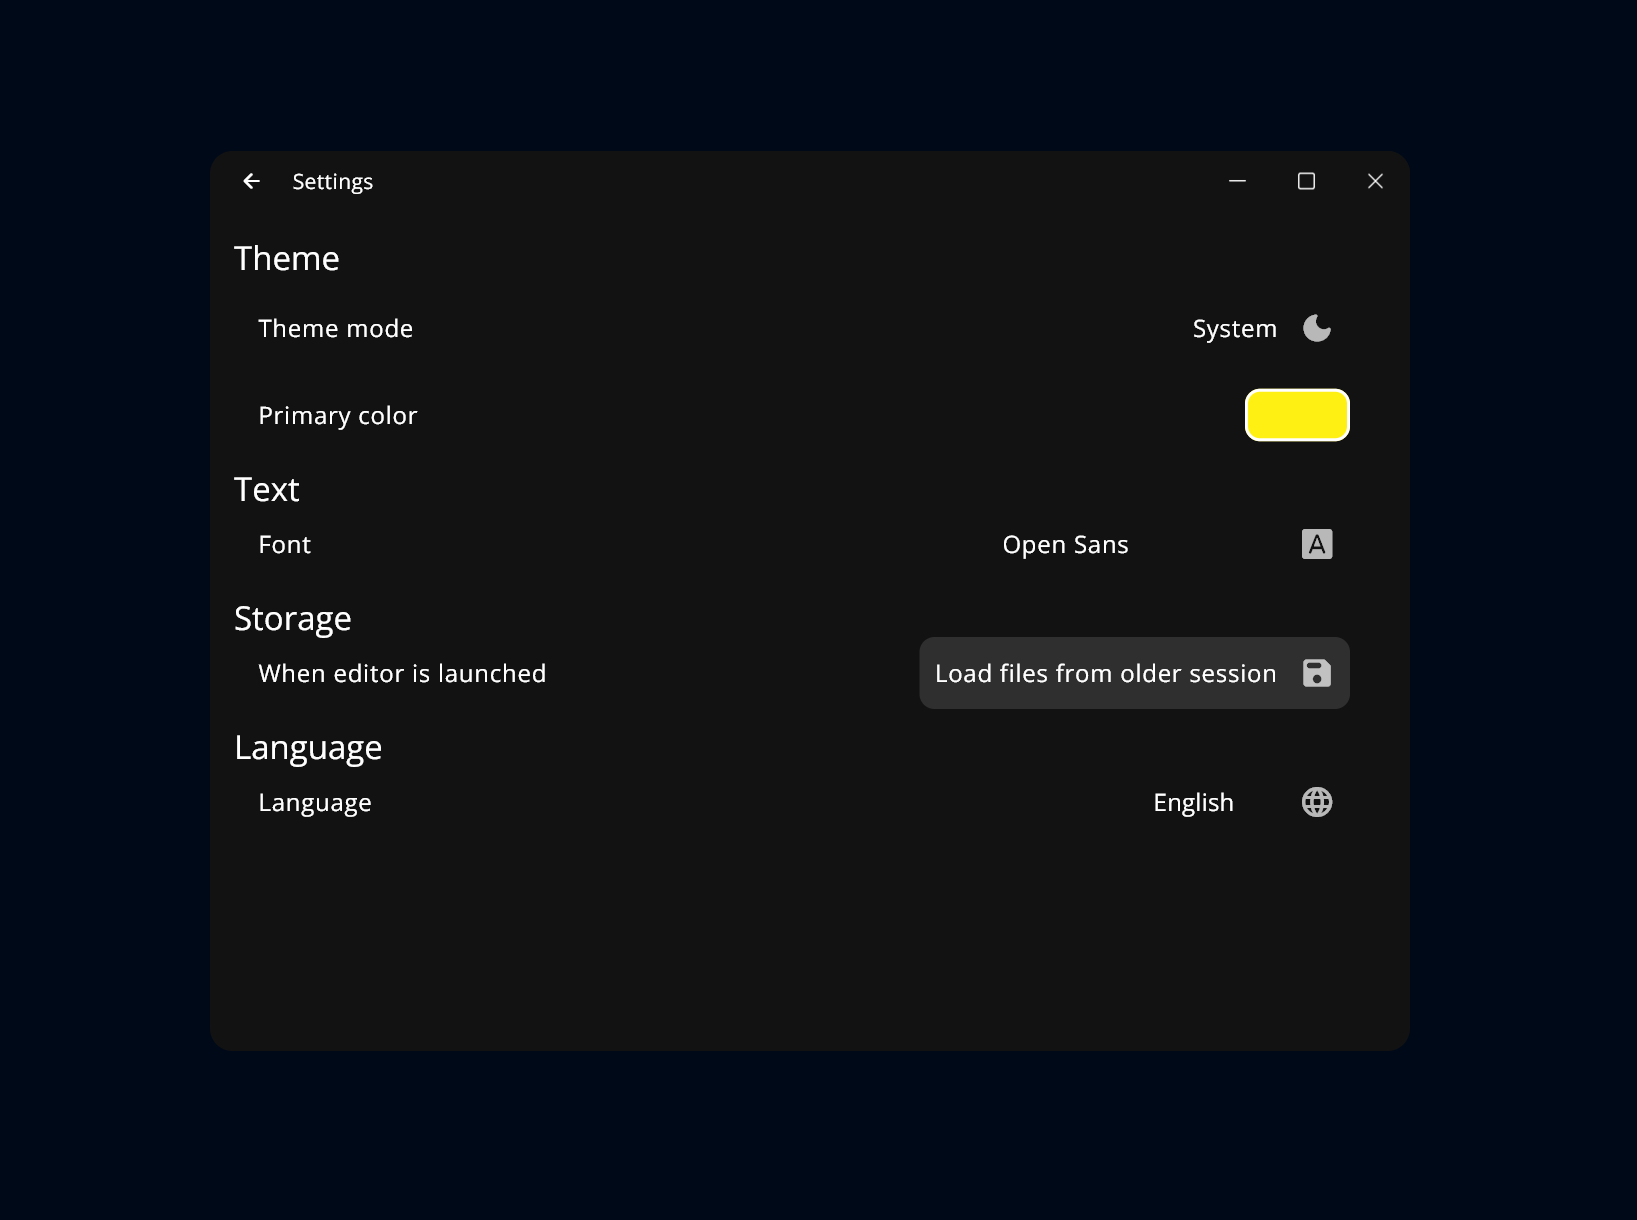
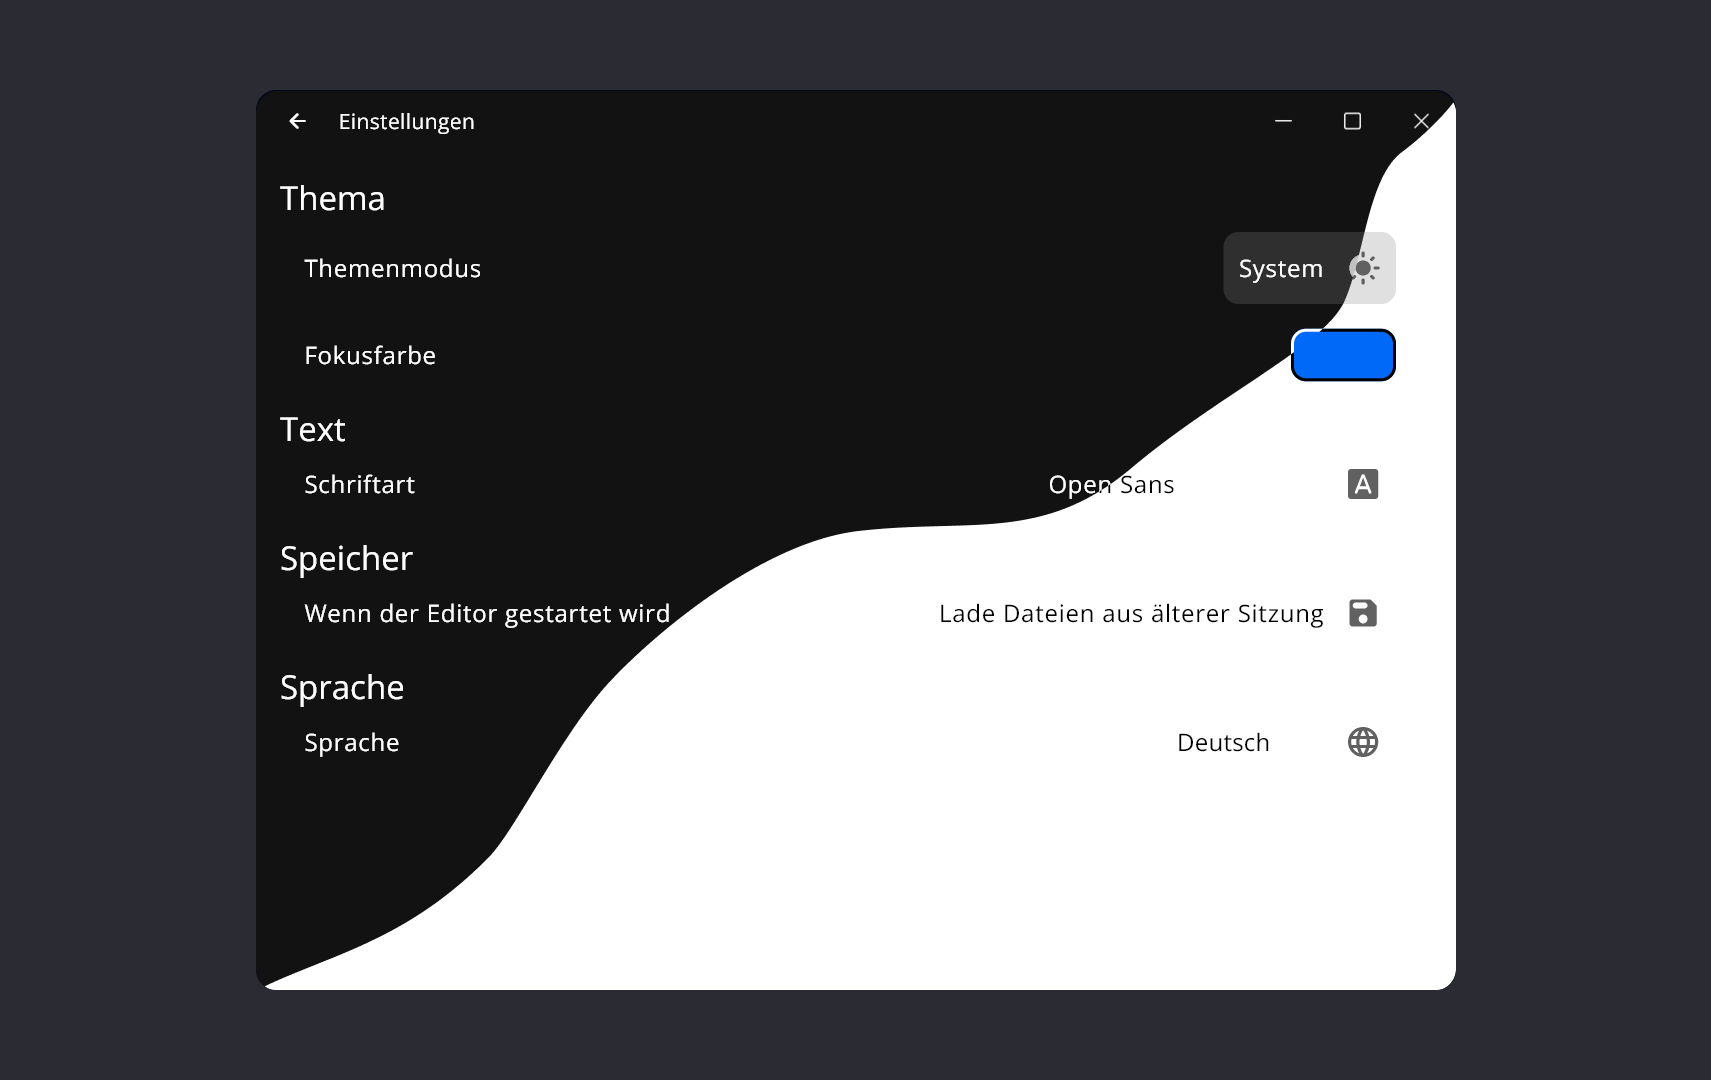
Fixed theme issues, added installer, update readme

diff --git a/lib/models/document.dart b/lib/models/document.dart
@@ -95,7 +95,7 @@ class DocumentNotifier extends StateNotifier<List<Document>> {
     final result = await FilePicker.platform.pickFiles(
       dialogTitle: LocalKeys.open.tr(),
       type: FileType.custom,
-      allowedExtensions: ["edoc", "txt"],
+      allowedExtensions: ["odoc", "txt"],
     );
 
     if (result == null ||
@@ -183,15 +183,15 @@ class DocumentNotifier extends StateNotifier<List<Document>> {
       newPathList.removeLast();
       String newPath = newPathList.join("\\");
 
-      if (File("$newPath\\$newTitle.edoc").existsSync()) {
+      if (File("$newPath\\$newTitle.odoc").existsSync()) {
         throw LocalKeys.fileWithSameTitleAlreadyExists.tr();
       }
 
-      File(doc.diskLocation!).renameSync("$newPath\\$newTitle.edoc");
+      File(doc.diskLocation!).renameSync("$newPath\\$newTitle.odoc");
 
       doc = doc.copyWith(
         title: newTitle,
-        diskLocation: "$newPath\\$newTitle.edoc",
+        diskLocation: "$newPath\\$newTitle.odoc",
       );
       // Update the state, remove the old document and add the updatet one
       state = [
@@ -238,9 +238,9 @@ class DocumentNotifier extends StateNotifier<List<Document>> {
     if (diskLocation == null) {
       final result = await FilePicker.platform.saveFile(
         dialogTitle: LocalKeys.saveAs.tr(),
-        fileName: "${doc.title ?? LocalKeys.unknown.tr()}.edoc",
+        fileName: "${doc.title ?? LocalKeys.unknown.tr()}.odoc",
         type: FileType.custom,
-        allowedExtensions: ["edoc", "txt"],
+        allowedExtensions: ["odoc", "txt"],
       );
 
       if (result != null) {
@@ -279,9 +279,9 @@ class DocumentNotifier extends StateNotifier<List<Document>> {
 
     final result = await FilePicker.platform.saveFile(
       dialogTitle: LocalKeys.saveAs.tr(),
-      fileName: "${doc.title ?? LocalKeys.unknown.tr()}.edoc",
+      fileName: "${doc.title ?? LocalKeys.unknown.tr()}.odoc",
       type: FileType.custom,
-      allowedExtensions: ["edoc", "txt"],
+      allowedExtensions: ["odoc", "txt"],
     );
 
     if (result != null) {
@@ -325,7 +325,7 @@ class DocumentNotifier extends StateNotifier<List<Document>> {
 
   Future<void> saveToDocumentsCache(Document document) async {
     final path =
-        "${MemoryLocations.applicationDocumentsDirectory}\\${MemoryLocations.documentsCacheLocation}\\${document.uuid}.json"; // Important: JSON Document, not .edoc, the name of doc is the uuid and the title + text is stored in the document
+        "${MemoryLocations.applicationDocumentsDirectory}\\${MemoryLocations.documentsCacheLocation}\\${document.uuid}.json"; // Important: JSON Document, not .odoc, the name of doc is the uuid and the title + text is stored in the document
     final file = File(path);
 
     // Almost impossible, but just in case

diff --git a/lib/pages/settings_page.dart b/lib/pages/settings_page.dart
@@ -225,6 +225,9 @@ class SettingsPage extends HookConsumerWidget {
                               value: languageKeys[lang],
                               child: Text(
                                 lang.tr(),
+                                style: TextStyle(
+                                  color: colorScheme.onBackground,
+                                ),
                               ),
                             ),
                           )
@@ -314,7 +317,12 @@ class SettingsWindowBar extends StatelessWidget {
             ),
           ),
           const SizedBox(width: 10),
-          Text(LocalKeys.settings.tr()),
+          Text(
+            LocalKeys.settings.tr(),
+            style: TextStyle(
+              color: colorScheme.onBackground,
+            ),
+          ),
           Expanded(
             child: WindowCaption(
               backgroundColor: colorScheme.background,

diff --git a/lib/pages/document_editing_page.dart b/lib/pages/document_editing_page.dart
@@ -23,7 +23,7 @@ class DocumentEditingPage extends HookConsumerWidget {
     if (document.title != titleController.text) {
       titleController.text = (document.title ?? LocalKeys.unknown.tr())
           .replaceAll(
-            ".edoc",
+            ".odoc",
             "",
           )
           .replaceAll(
@@ -109,6 +109,7 @@ ${LocalKeys.lastModified.tr()}: ${document.formatDateTime(document.lastModified)
                 style: TextStyle(
                   fontSize:
                       16 * (zoom / 100), // The zoom only controls the font size
+                  color: colorScheme.onBackground,
                 ),
                 decoration: InputDecoration(
                   border: InputBorder.none,

diff --git a/lib/widgets/documents_tab.dart b/lib/widgets/documents_tab.dart
@@ -53,7 +53,7 @@ class DocumentTab extends ConsumerWidget {
                 child: Text(
                   (document.title ?? LocalKeys.unknown.tr())
                       .replaceAll(
-                        ".edoc",
+                        ".odoc",
                         "",
                       )
                       .replaceAll(

diff --git a/README.md b/README.md
@@ -2,7 +2,7 @@
 
 OpenScribe is an open source editor app that aims to replace the standard Windows editor with advanced features.
 
-![OpenScribe](assets/app/image.png)
+![OpenScribe](assets/app/home.png)
 ![OpenScribe](assets/app/settings.png)
 
 ### Features
@@ -26,6 +26,9 @@ Go to the releases and install the latest release. Unzip the .zip file and run `
 - Open settings with `Ctrl + ,` or click on the top right settings icon
 - Get information about the with the info icon on the top right under the settings icon, hover over it to get the information
 - Quit the app with `Ctrl + Q`
+
+- #### Note
+    - When changing to light mode, probably you have to adjust the primary color setting
 
 ### License
 This project is licensed under the MIT license. See the license file for more information.
